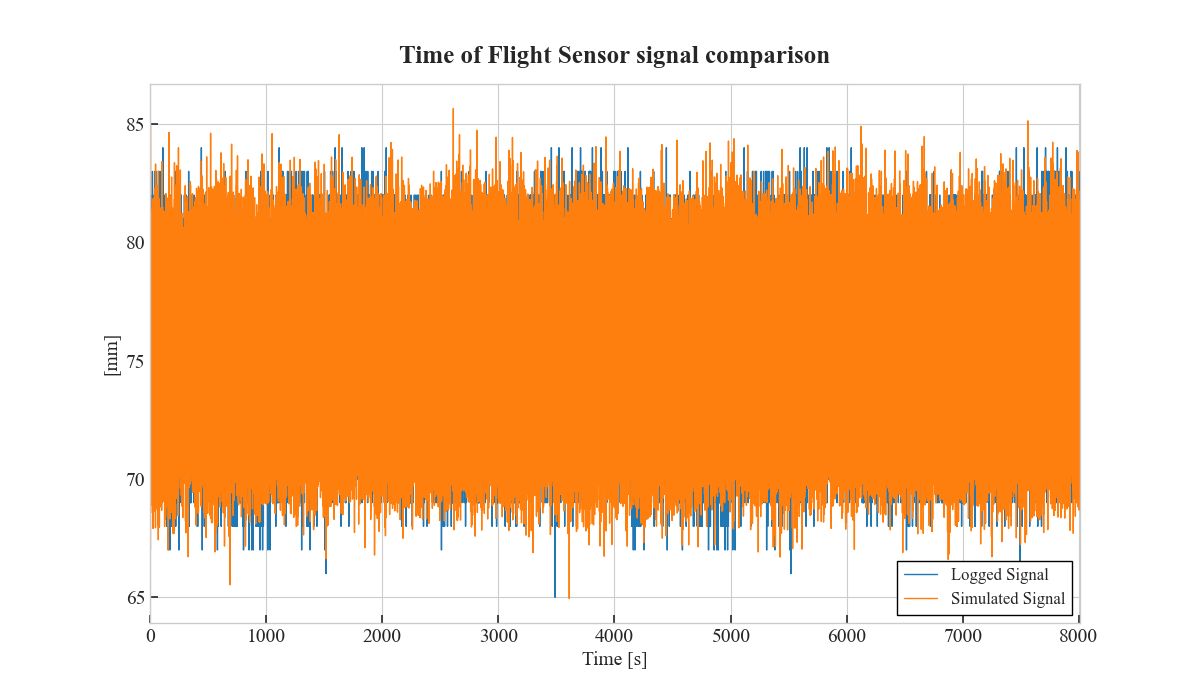
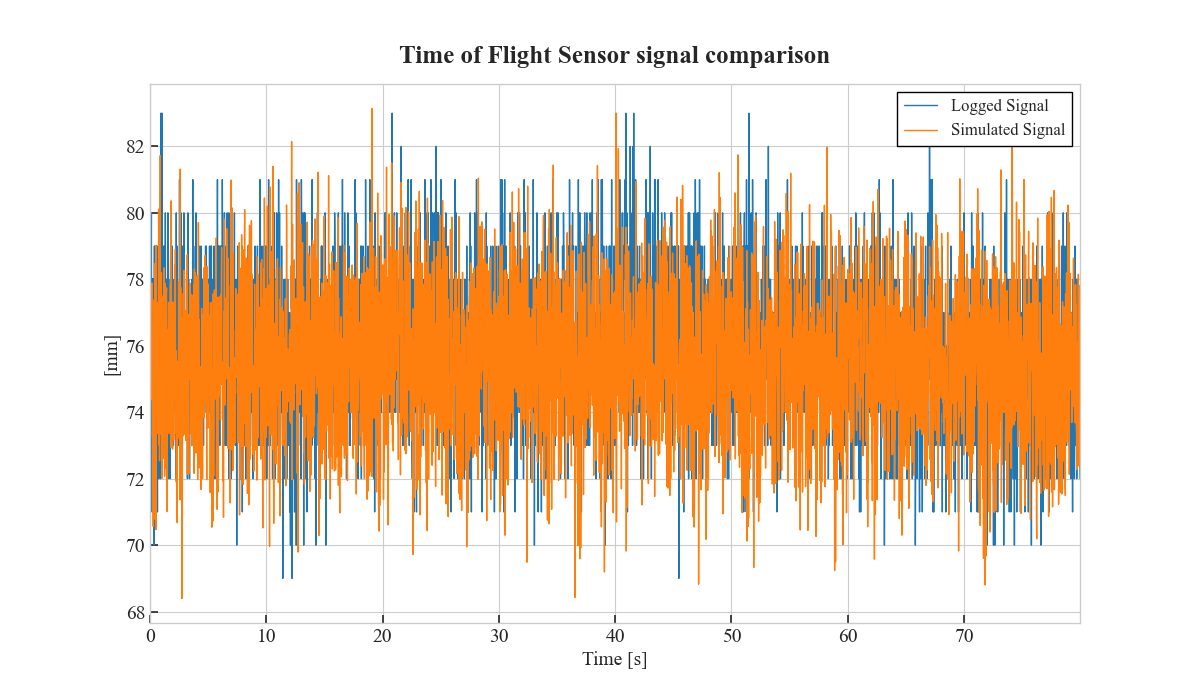
Better images

diff --git a/CalibrationTests/test_signal_characterization.py b/CalibrationTests/test_signal_characterization.py
@@ -8,7 +8,7 @@ import numpy as np
 from TimeOfFlightCalibrationModules import tof_distance_calibration as tof
 from TimeOfFlightCalibrationModules.utils import extract_tof_distance_data, show_time_data
 
-spanish = False
+spanish = True
 
 # Use synthetic data
 synthetic = False
@@ -68,7 +68,8 @@ else:
     plot_xlabel = "Time [s]"
     plot_ylabel = "[mm]"
     plot_legend = ["Logged Signal", "Simulated Signal"]
-show_time_data(np.vstack([tof_data, sim_data]).T, sampling_freq, legend=plot_legend, 
+
+show_time_data(np.vstack([tof_data, sim_data]).T[:4000,:], sampling_freq, legend=plot_legend, 
                title=plot_title_1, xlabel=plot_xlabel, ylabel=plot_ylabel)
 
 
